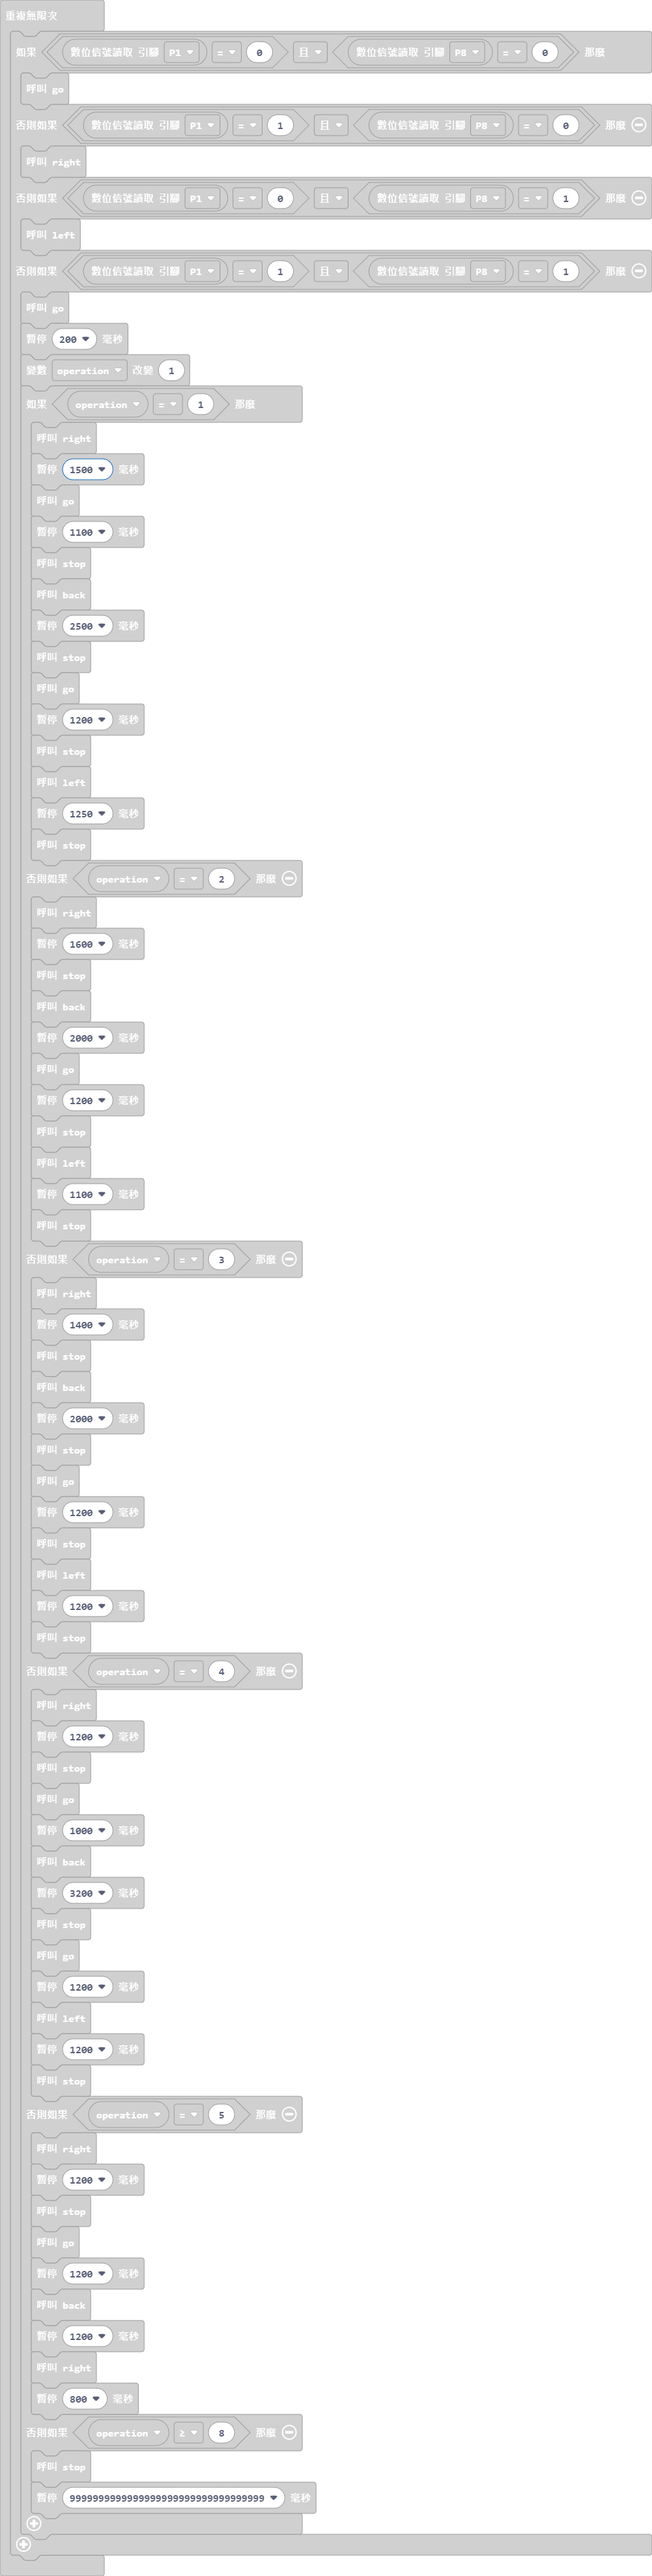
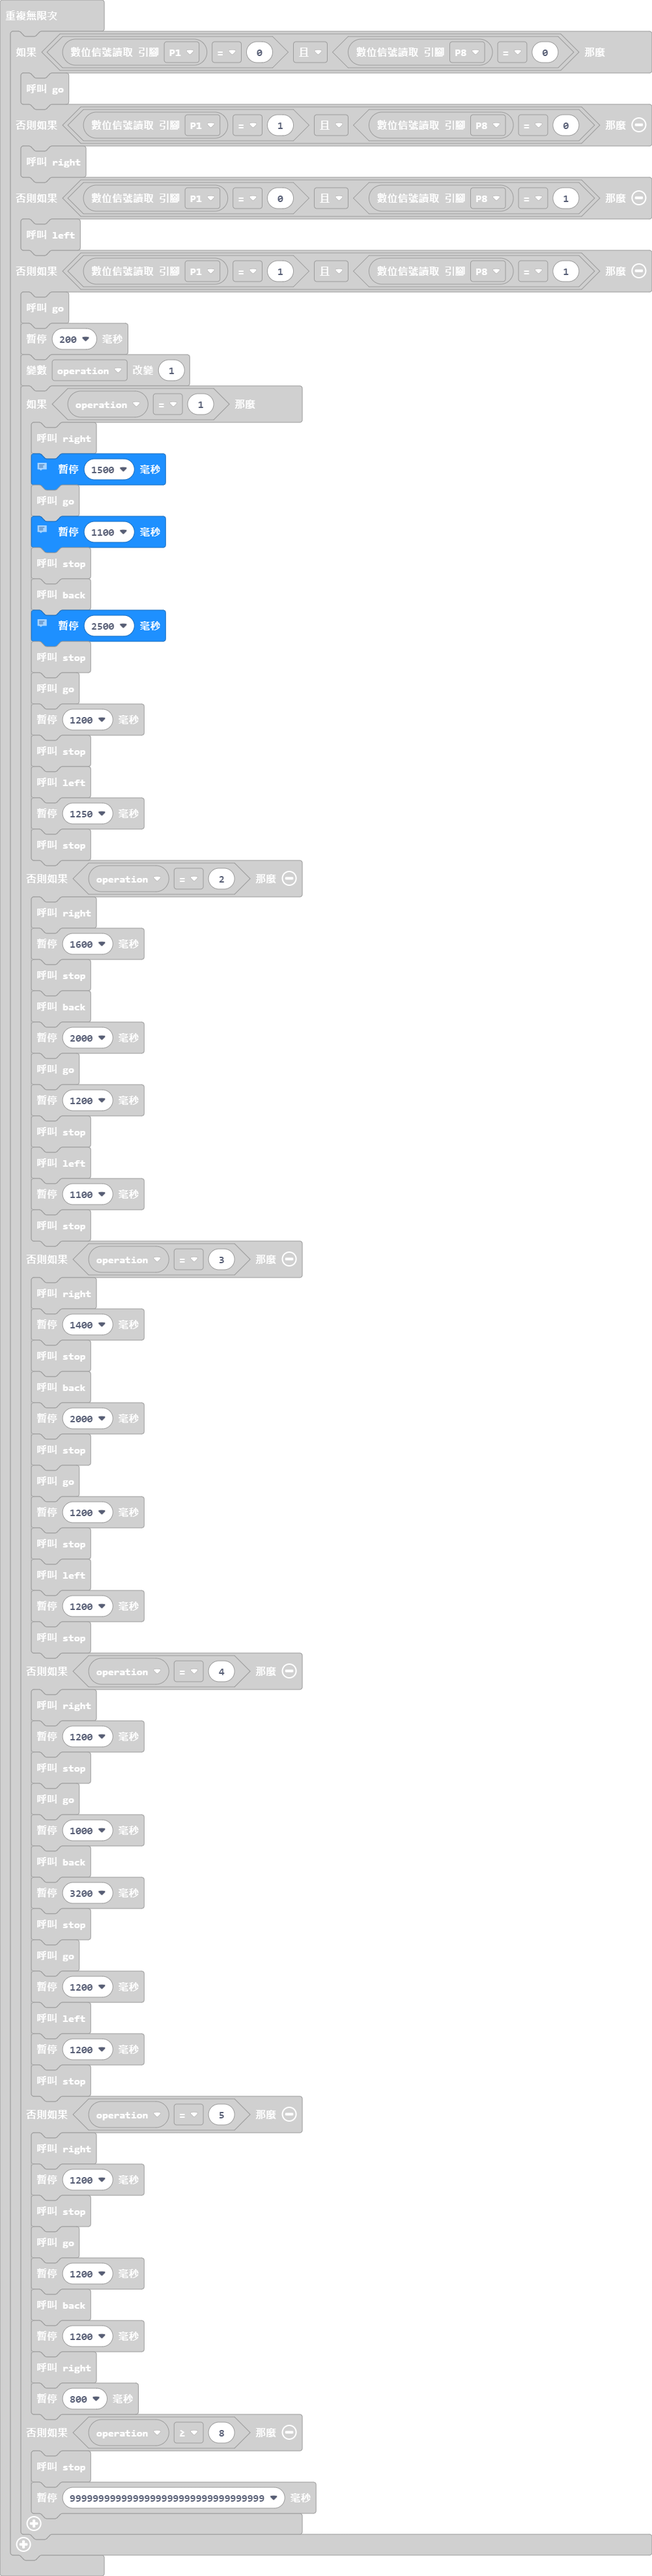
更新 main.blocks, main.ts

Changed region(s): [[0.031, 0.1556, 0.2787, 0.249]]

diff --git a/main.ts b/main.ts
@@ -96,11 +96,14 @@ basic.forever(function () {
         operation += 1
         if (operation == 1) {
             right()
+            // 第一條黑線的右轉
             basic.pause(1500)
             go()
+            // 推進A區
             basic.pause(1100)
             stop()
             back()
+            // 從A區向後推到D區
             basic.pause(2500)
             stop()
             go()
